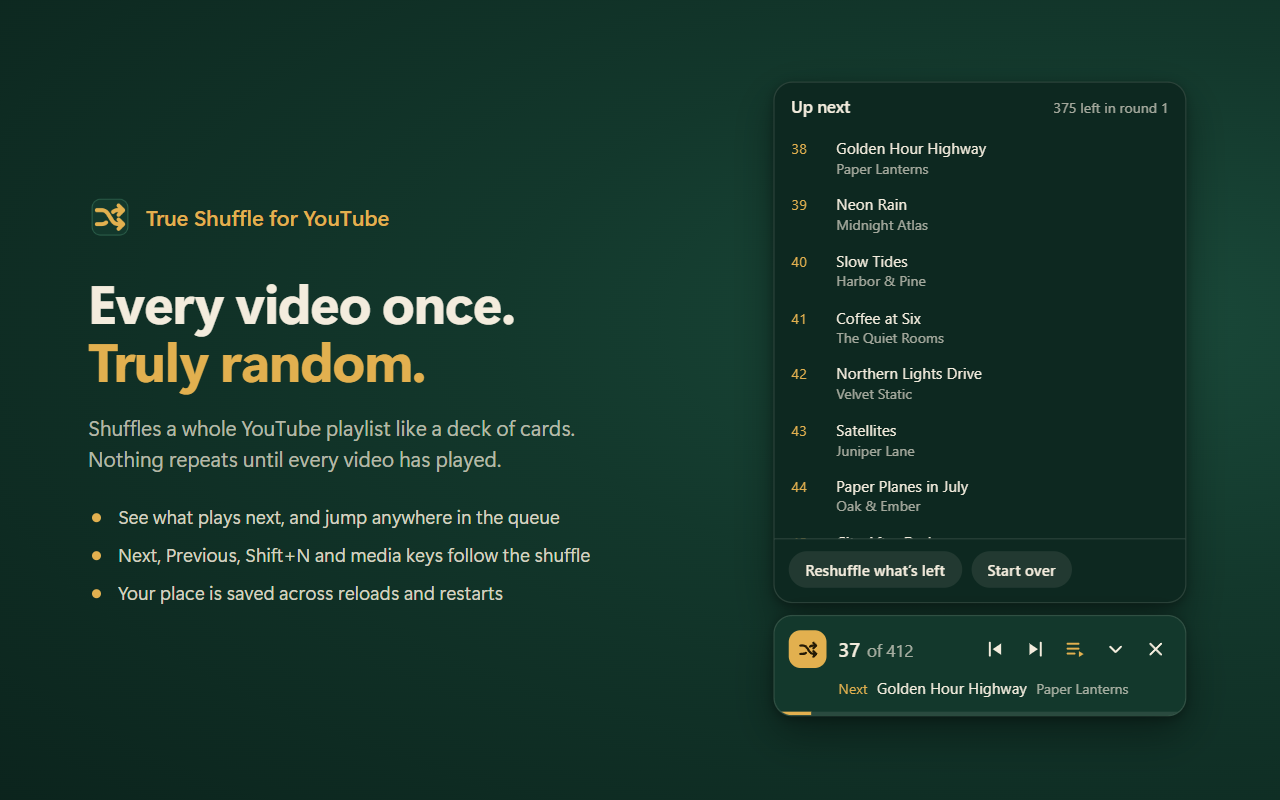
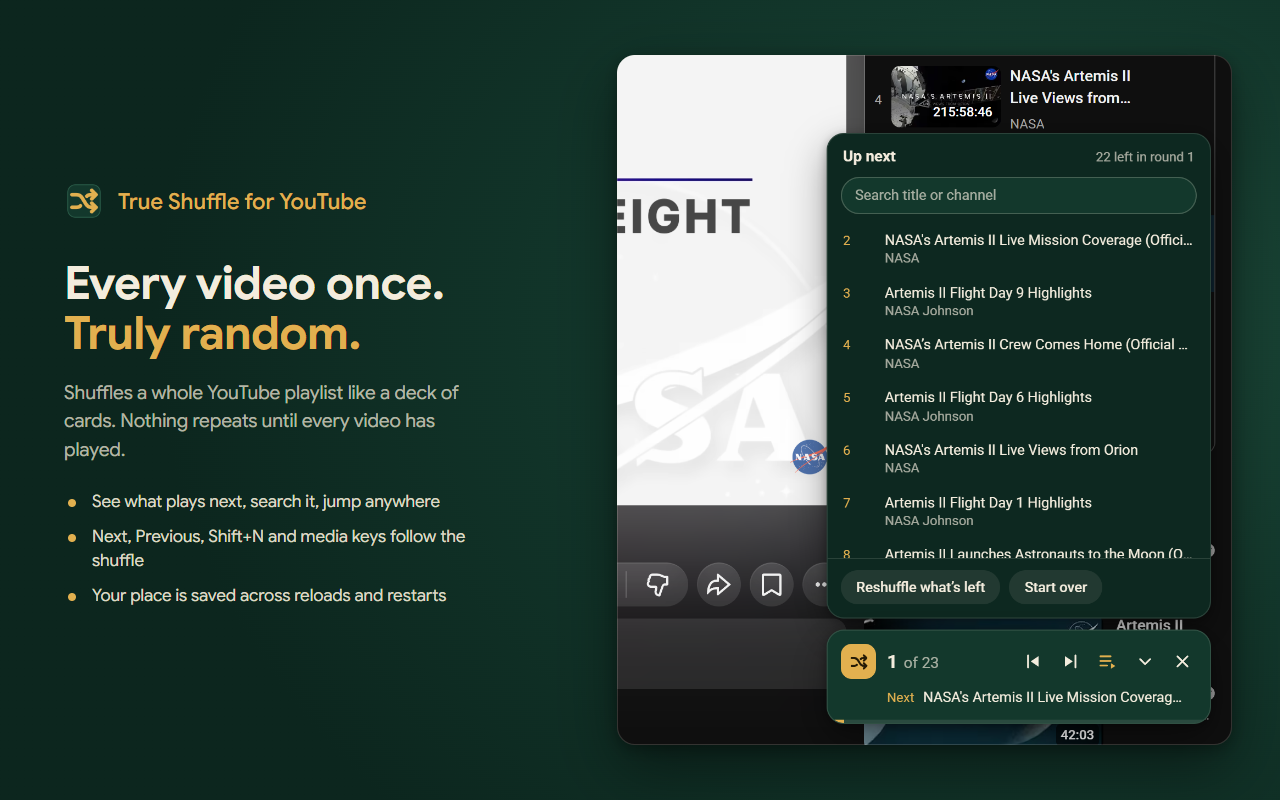
Real screenshots on the Welcome and What's new pages; new store screenshot 1
The "Screenshot coming soon" boxes become real pictures (welcome/shots, WebP, 392 KB for all seven):
the card with Up next (also the new store screenshot 1, now showing its search box), hide watched,
search and sort, Play/Shuffle of a search, the vanished-videos notice (store screenshot 3 no longer
ends on half a row), the options page, the popup in Italian. The placeholder style and message go.

diff --git a/welcome/whats-new.html b/welcome/whats-new.html
@@ -20,53 +20,41 @@
       <h2 id="unwatched-h" data-i18n="newsUnwatchedHeading"></h2>
       <p data-i18n="newsUnwatchedWhere"></p>
       <p data-i18n="newsUnwatchedHow"></p>
-      <!-- Screenshot (for the owner): YouTube's Home page with Hide watched videos switched on, the toolbar popup open beside it showing the switch. Save it as welcome/shots/unwatched.png at 1280×800, then replace the div below with
-           <img src="shots/unwatched.png" data-i18n-alt="newsShotUnwatched" alt=""> -->
-      <figure class="shot"><div class="placeholder" role="img" data-i18n-aria-label="newsShotUnwatched"><span data-i18n="newsShotSoon"></span></div></figure>
+      <figure class="shot"><img src="shots/unwatched.webp" width="1280" height="800" data-i18n-alt="newsShotUnwatched" alt=""></figure>
     </section>
 
     <section class="settings" id="tools" aria-labelledby="tools-h">
       <h2 id="tools-h" data-i18n="newsToolsHeading"></h2>
       <p data-i18n="newsToolsSearch"></p>
       <p data-i18n="newsToolsView"></p>
-      <!-- Screenshot (for the owner): a playlist page with a word typed in True Shuffle's search box and the sort menu open, the list below filtered. Save it as welcome/shots/tools.png at 1280×800, then replace the div below with
-           <img src="shots/tools.png" data-i18n-alt="newsShotTools" alt=""> -->
-      <figure class="shot"><div class="placeholder" role="img" data-i18n-aria-label="newsShotTools"><span data-i18n="newsShotSoon"></span></div></figure>
+      <figure class="shot"><img src="shots/tools.webp" width="1280" height="800" data-i18n-alt="newsShotTools" alt=""></figure>
     </section>
 
     <section class="settings" id="play-view" aria-labelledby="play-view-h">
       <h2 id="play-view-h" data-i18n="newsPlayHeading"></h2>
       <p data-i18n="newsPlayButtons"></p>
       <p data-i18n="newsPlayWhole"></p>
-      <!-- Screenshot (for the owner): a video playing after Shuffle on a searched playlist, with the card's Up next list open and its Shuffle whole playlist button showing. Save it as welcome/shots/play-view.png at 1280×800, then replace the div below with
-           <img src="shots/play-view.png" data-i18n-alt="newsShotPlay" alt=""> -->
-      <figure class="shot"><div class="placeholder" role="img" data-i18n-aria-label="newsShotPlay"><span data-i18n="newsShotSoon"></span></div></figure>
+      <figure class="shot"><img src="shots/play-view.webp" width="1280" height="800" data-i18n-alt="newsShotPlay" alt=""></figure>
     </section>
 
     <section class="settings" id="removed" aria-labelledby="removed-h">
       <h2 id="removed-h" data-i18n="newsRemovedHeading"></h2>
       <p data-i18n="newsRemovedNotice"></p>
       <p data-i18n="newsRemovedMore"></p>
-      <!-- Screenshot (for the owner): a playlist page with True Shuffle's notice above the list, naming a video that was removed, with its Seen it button. Save it as welcome/shots/removed.png at 1280×800, then replace the div below with
-           <img src="shots/removed.png" data-i18n-alt="newsShotRemoved" alt=""> -->
-      <figure class="shot"><div class="placeholder" role="img" data-i18n-aria-label="newsShotRemoved"><span data-i18n="newsShotSoon"></span></div></figure>
+      <figure class="shot"><img src="shots/removed.webp" width="1280" height="800" data-i18n-alt="newsShotRemoved" alt=""></figure>
     </section>
 
     <section class="settings" id="settings" aria-labelledby="settings-h">
       <h2 id="settings-h" data-i18n="newsSettingsHeading"></h2>
       <p data-i18n="newsSettingsText"></p>
       <p><a href="../options/options.html" data-i18n="newsSettingsOpen"></a></p>
-      <!-- Screenshot (for the owner): the options page, scrolled to the top so the Shuffle and Watched videos sections show. Save it as welcome/shots/options.png at 1280×800, then replace the div below with
-           <img src="shots/options.png" data-i18n-alt="newsShotOptions" alt=""> -->
-      <figure class="shot"><div class="placeholder" role="img" data-i18n-aria-label="newsShotOptions"><span data-i18n="newsShotSoon"></span></div></figure>
+      <figure class="shot"><img src="shots/options.webp" width="1280" height="800" data-i18n-alt="newsShotOptions" alt=""></figure>
     </section>
 
     <section class="settings" id="language" aria-labelledby="language-h">
       <h2 id="language-h" data-i18n="newsLanguageHeading"></h2>
       <p data-i18n="newsLanguageText"></p>
-      <!-- Screenshot (for the owner): the toolbar popup over a YouTube video, with the browser set to Italian. Save it as welcome/shots/language.png at 1280×800, then replace the div below with
-           <img src="shots/language.png" data-i18n-alt="newsShotLanguage" alt=""> -->
-      <figure class="shot"><div class="placeholder" role="img" data-i18n-aria-label="newsShotLanguage"><span data-i18n="newsShotSoon"></span></div></figure>
+      <figure class="shot"><img src="shots/language.webp" width="1280" height="800" data-i18n-alt="newsShotLanguage" alt=""></figure>
     </section>
 
     <section class="settings" id="about" aria-labelledby="about-h">

diff --git a/popup/popup.css b/popup/popup.css
@@ -153,15 +153,9 @@ a:not(.btn):focus-visible { outline: 2px solid var(--brass-hi); outline-offset: 
 .toc a:hover, .links a:hover { text-decoration: underline; }
 .links { margin: 0; padding-left: 20px; }
 .links li { margin: 4px 0; }
-/* A picture of a feature: a dashed box until the real screenshot (an <img> in the figure) is added. */
+/* A picture of a feature (Welcome and What's new pages). */
 .shot { margin: 14px 0 4px; }
-.shot img, .shot .placeholder { display: block; width: 100%; aspect-ratio: 16 / 10; border-radius: 12px; }
-.shot img { height: auto; object-fit: cover; }
-.shot .placeholder {
-  display: grid; place-items: center; padding: 16px;
-  border: 2px dashed rgba(243, 236, 221, 0.28); background: rgba(0, 0, 0, 0.18);
-  color: var(--ivory-2); text-align: center;
-}
+.shot img { display: block; width: 100%; height: auto; aspect-ratio: 16 / 10; border-radius: 12px; object-fit: cover; }
 .shot figcaption { margin-top: 6px; color: var(--ivory-2); font-size: 12.5px; }
 kbd {
   padding: 1px 6px; border: 1px solid var(--line); border-radius: 6px;

diff --git a/welcome/welcome.html b/welcome/welcome.html
@@ -27,9 +27,7 @@
       <div class="row">
         <a class="btn primary" href="https://www.youtube.com/feed/playlists" target="_blank" rel="noopener" data-i18n="welcomeOpenPlaylists"></a>
       </div>
-      <!-- Screenshot (for the owner): a YouTube video page playing from a playlist, with the True Shuffle card open at the bottom right and its Up next list showing. Save it as welcome/shots/card.png at 1280×800, then replace the div below with
-           <img src="shots/card.png" data-i18n-alt="welcomeShotCard" alt=""> -->
-      <figure class="shot"><div class="placeholder" role="img" data-i18n-aria-label="welcomeShotCard"><span data-i18n="newsShotSoon"></span></div></figure>
+      <figure class="shot"><img src="shots/card.webp" width="1280" height="800" data-i18n-alt="welcomeShotCard" alt=""></figure>
     </section>
 
     <section class="settings" id="also" aria-labelledby="also-h">

diff --git a/CLAUDE.md b/CLAUDE.md
@@ -57,7 +57,7 @@ repo, MIT. `README.md` is the user guide, `PRIVACY.md` the privacy policy, `stor
 | `src/ui.js` | `TrueShuffleUI.create(onAction)` → `{host, render(viewModel)}`: round button, card, "Up next" list and its search (`content.js` `upNext` matches the whole deck); `h()` |
 | `src/background.js` | Service worker (Firefox: event page): injects the scripts into open tabs on install/update; Alt+Shift+U; opens `welcome/welcome.html` on install, `whats-new.html` (background tab) once per `WHATS_NEW` |
 | `popup/` | Popup: `popup.js` fills static `popup.html`, polls the tab every 800 ms with `chrome.tabs.sendMessage({type})` (`type` = the `data-act` names: `status`, `start`, `next`…), answered by `status()`. `settings.js` binds the settings controls of the popup and options page; `popup.css` styles every extension page (`body.page`) |
-| `options/` (opens in a tab), `welcome/` | Options page: every setting; Alerts history (loads `src/removed.js`) with CSV export; About. Welcome and What's new pages (`.shot` placeholders await screenshots) |
+| `options/` (opens in a tab), `welcome/` | Options page: every setting; Alerts history (loads `src/removed.js`) with CSV export; About. Welcome and What's new pages (screenshots in `welcome/shots/`, WebP) |
 | `test/` | `node --test`: `shuffle` (with the 1.0.0 spread as an oracle), `watcher`, `unwatched`, `playlist-tools`, `removed`, `i18n` |
 | `store/`, `.github/workflows/release.yml` | `pack.js` builds the zips; store guide and images (not shipped). On a `v*` tag equal to `v` + manifest version, `release.yml` runs `pack.js` and publishes a release |
 

diff --git a/store/README.md b/store/README.md
@@ -31,7 +31,7 @@ node store/pack.js
 | `promo-small.png` | 440×280 | Small promo tile (Chrome, Edge) |
 | `promo-marquee.png` | 1400×560 | Marquee promo tile (Chrome, optional: used if the store features the extension) |
 
-Screenshots 2 to 5 and the marquee show the real extension on youtube.com, with NASA's public Artemis playlists; the two alerts in screenshot 3 are sample data. For the Chrome Web Store, [`listing.html`](listing.html) (open it in your browser) has every field to paste, with copy buttons, and these images in order.
+All five screenshots and the marquee show the real extension on youtube.com, with NASA's public Artemis playlists; the two alerts in screenshot 3 are sample data. For the Chrome Web Store, [`listing.html`](listing.html) (open it in your browser) has every field to paste, with copy buttons, and these images in order.
 
 ## 3. Chrome Web Store
 
